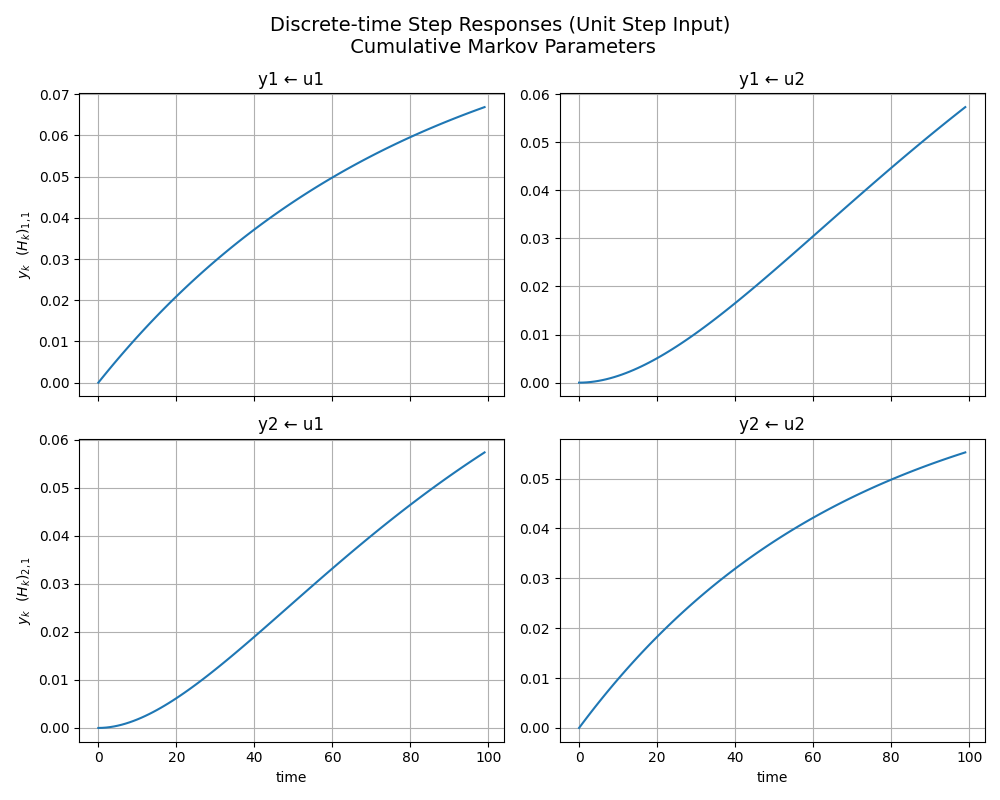
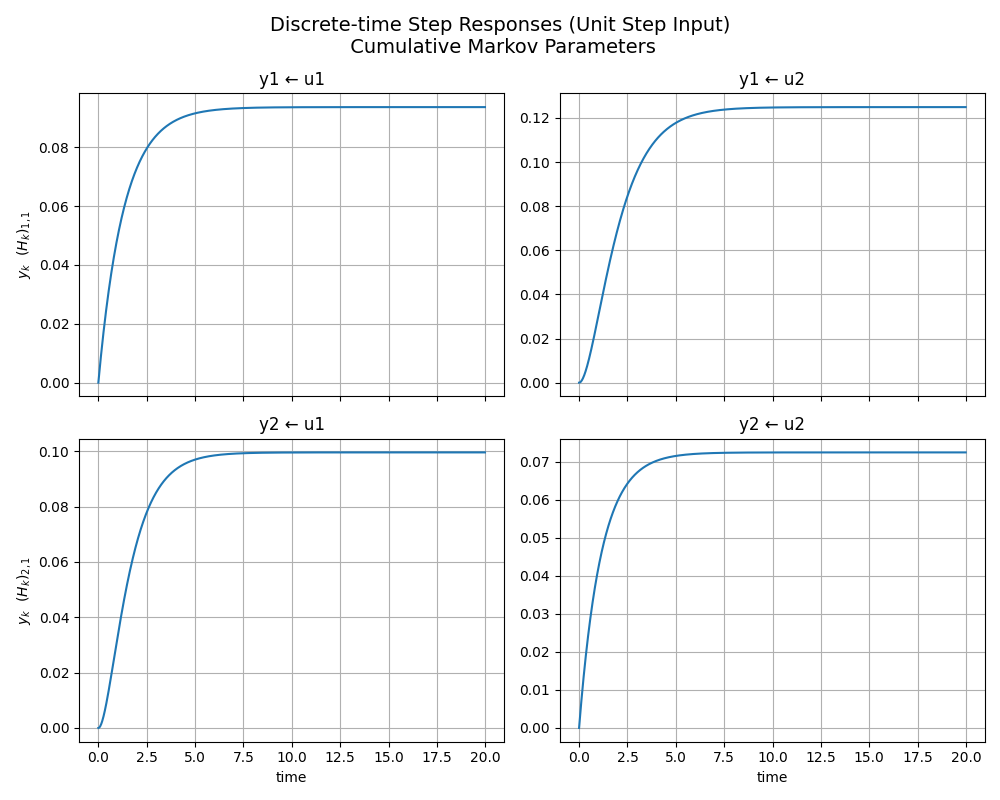
kalman

diff --git a/Problem_5.py b/Problem_5.py
@@ -91,6 +91,41 @@ def markov_parameters(Ad, Bd, C, D=None, N=100):
     H = np.stack(H, axis=0) # convert list to array
     return H  
 
+def Hankel_matrix(markov_params, r, s):
+
+    n, p, m = markov_params.shape
+    print(n, p, m)
+    print((r*p, s*m))
+    H = np.zeros((r*p, s*m))
+
+    # Create Hankel matrix
+    for i in range(r):
+        for j in range(s):
+            H[i*p:(i+1)*p, j*m:(j+1)*m] = markov_params[i+j]
+
+    # Split Hankel matrix into past and future parts
+    #Hp = H[:p*r//2, :m*s//2]  # past
+    #Hf = H[p*r//2:, :m*s//2]  # future
+    Hp = H
+    # SVD decomposition
+    U, S, Vt = np.linalg.svd(Hp, full_matrices=False)
+    
+    # Determine system order from singular values 
+    n = np.sum(S > 1e-10)  # threshold for numerical stability  
+    
+    # Calculate observability and controllability matrices
+    Sigma_sqrt = np.diag(np.sqrt(S[:n]))
+    Or = U[:, :n] @ Sigma_sqrt  # observability matrix
+    Cr = Sigma_sqrt @ Vt[:n, :]  # controllability matrix
+    
+    # Extract A, B, C matrices
+    C = Or[:p, :]
+    A = np.linalg.pinv(Or[:-p, :]) @ Or[p:, :]
+    B = Cr[:, :m]
+
+    return H, A, B, C, S
+
+
 x0, u, d, p , R_s, R_d, delta_t = initialize()
 
 #%% Linearize continous time
@@ -151,7 +186,7 @@ Ts = 1
 Ad, Bd, C, Cz = Model_Stochastic.LinearizeDiscreteTime(xs, d, Ts)
 
 # Markov parameters 
-N = 100
+N = 20*60
 H = markov_parameters(Ad, Bd, Cz, D=np.zeros((Cz.shape[0], Bd.shape[1])), N=N)
 
 N, p, m = H.shape
@@ -165,7 +200,7 @@ for i in range(p):
     for j in range(m):
         hij = H[:, i, j]
         ax = axes[i, j]
-        ax.plot(time, hij)
+        ax.plot(time/60, hij)
         ax.set_title(f"y{i+1} \u2190 u{j+1}")
         ax.grid(True)
 
@@ -195,7 +230,7 @@ for i in range(p):
     for j in range(m):
         sij = S[:, i, j]
         ax = axes[i, j]
-        ax.plot(time, sij)
+        ax.plot(time/60, sij)
         ax.set_title(f"y{i+1} \u2190 u{j+1}")
         ax.grid(True)
 
@@ -214,3 +249,17 @@ for i in range(p):
 plt.tight_layout()
 plt.savefig(r"Figures\Problem5\Problem_5_Stepresponse.png")
 
+H_hankel, A_est, B_est, C_est, S_values = Hankel_matrix(H, 4, 4)
+
+plt.figure()
+plt.plot(S_values, 'o-')
+plt.yscale('log')
+plt.title("Hankel Matrix Structure")
+plt.savefig(r"Figures\Problem5\Problem_5_Hankel_Structure.png")
+# Create a dictionary with all estimated matrices
+estimates = {
+    "A": A_est,
+    "B": B_est,
+    "C": C_est
+}
+np.savez(r"Results\Problem5\Problem_5_estimates.npz", **estimates)

diff --git a/Problem_6.py b/Problem_6.py
@@ -1,0 +1,28 @@
+import numpy as np
+from src.KalmanFilterUpdate import KalmanFilterUpdate
+from params.initialize import initialize
+from src.FourTankSystem import FourTankSystem
+
+data = np.load(r"Results\Problem5\Problem_5_estimates.npz")
+A_est = data["A"]
+B_est = data["B"]
+C_est = data["C"]
+
+x0, u, d, p , R_s, R_d, delta_t = initialize()
+Model_Stochastic = FourTankSystem(R_s*0, R_d*0, p, delta_t)
+
+P = np.eye(A_est.shape[0])  # Initial estimate error covariance
+
+
+for t_idx,_ in enumerate(t):
+    yt = Model_Stochastic.StateSensor(xt)
+    zt = yt[:2]
+    xt, P = KalmanFilterUpdate(xt, ut, yt, A_est, B_est, C_est, P, R_s, R_d)
+    U[t_idx, :] = ut
+    Y[t_idx, :] = yt        
+    X[t_idx, :] = xt[:-2]
+    D[t_idx,:] = xt[-2:]        
+    # Save true state before simulating
+    X_true[t_idx, :] = xt
+
+    

diff --git a/src/KalmanFilterUpdate.py b/src/KalmanFilterUpdate.py
@@ -17,7 +17,7 @@ def solve_riccati(A:np.ndarray,R1:np.ndarray,R2:np.ndarray,C:np.ndarray) -> np.n
 
     return Ps
 
-def ordinary_kalman(xt:float,ut:float,yt:float,A:np.ndarray,B:np.ndarray,C:np.ndarray,P:np.ndarray,R1:np.ndarray,R2:np.ndarray,stationary:bool=True) -> float:
+def KalmanFilterUpdate(xt:float,ut:float,yt:float,A:np.ndarray,B:np.ndarray,C:np.ndarray,P:np.ndarray,R1:np.ndarray,R2:np.ndarray,stationary:bool=True) -> float:
 
     if stationary:
         P = solve_riccati(A,R1,R2,C)
